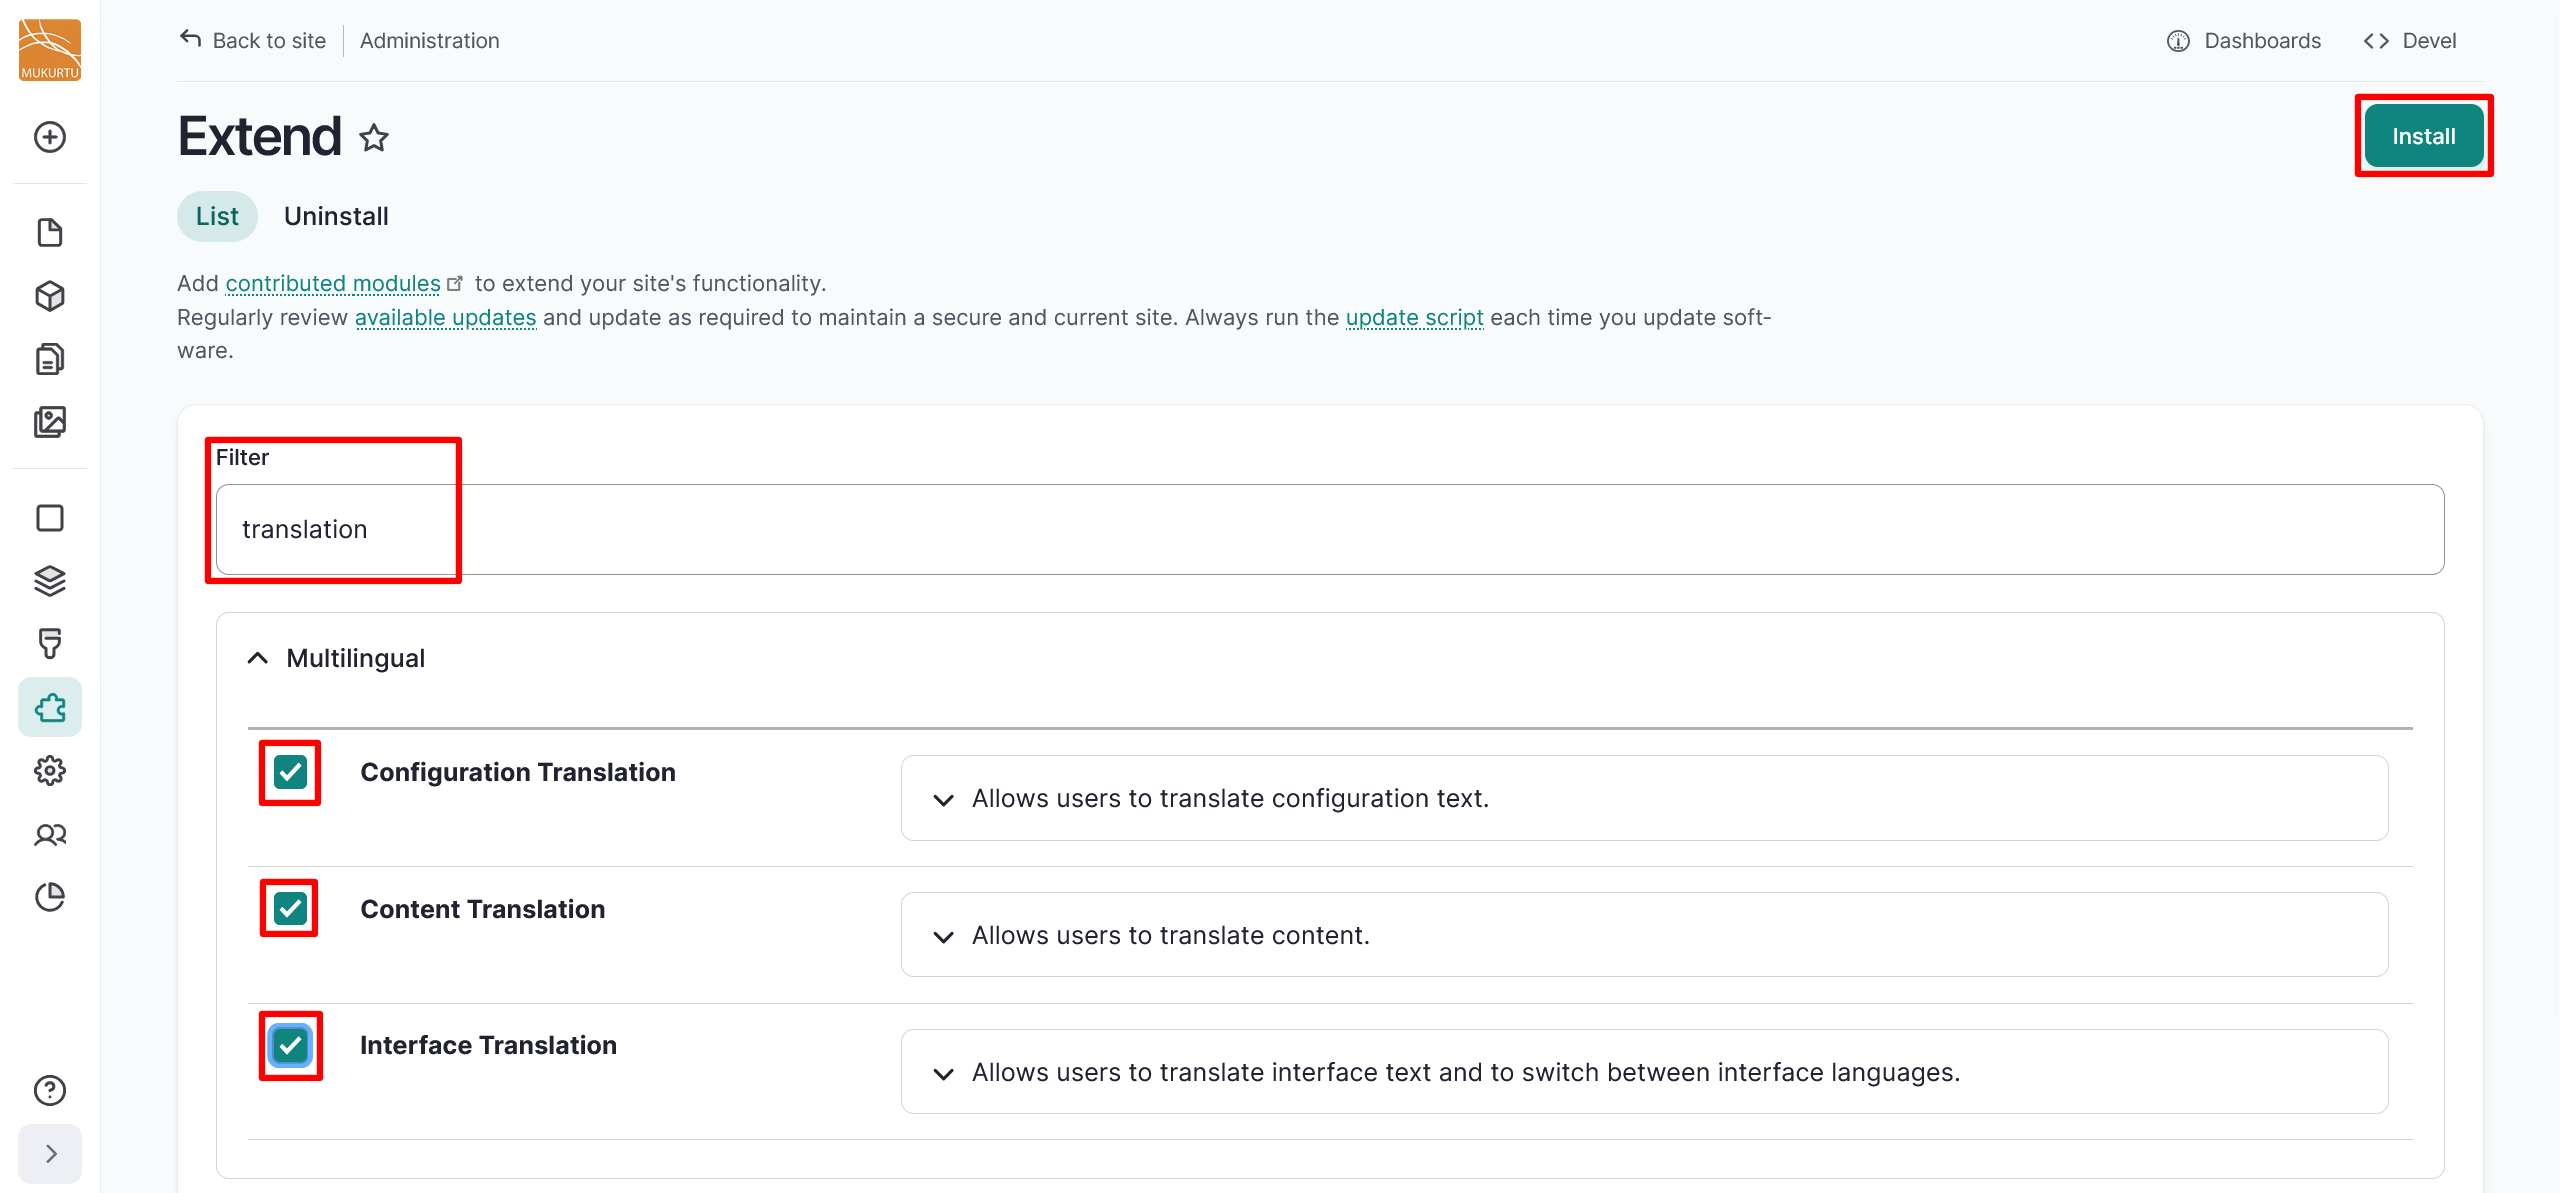
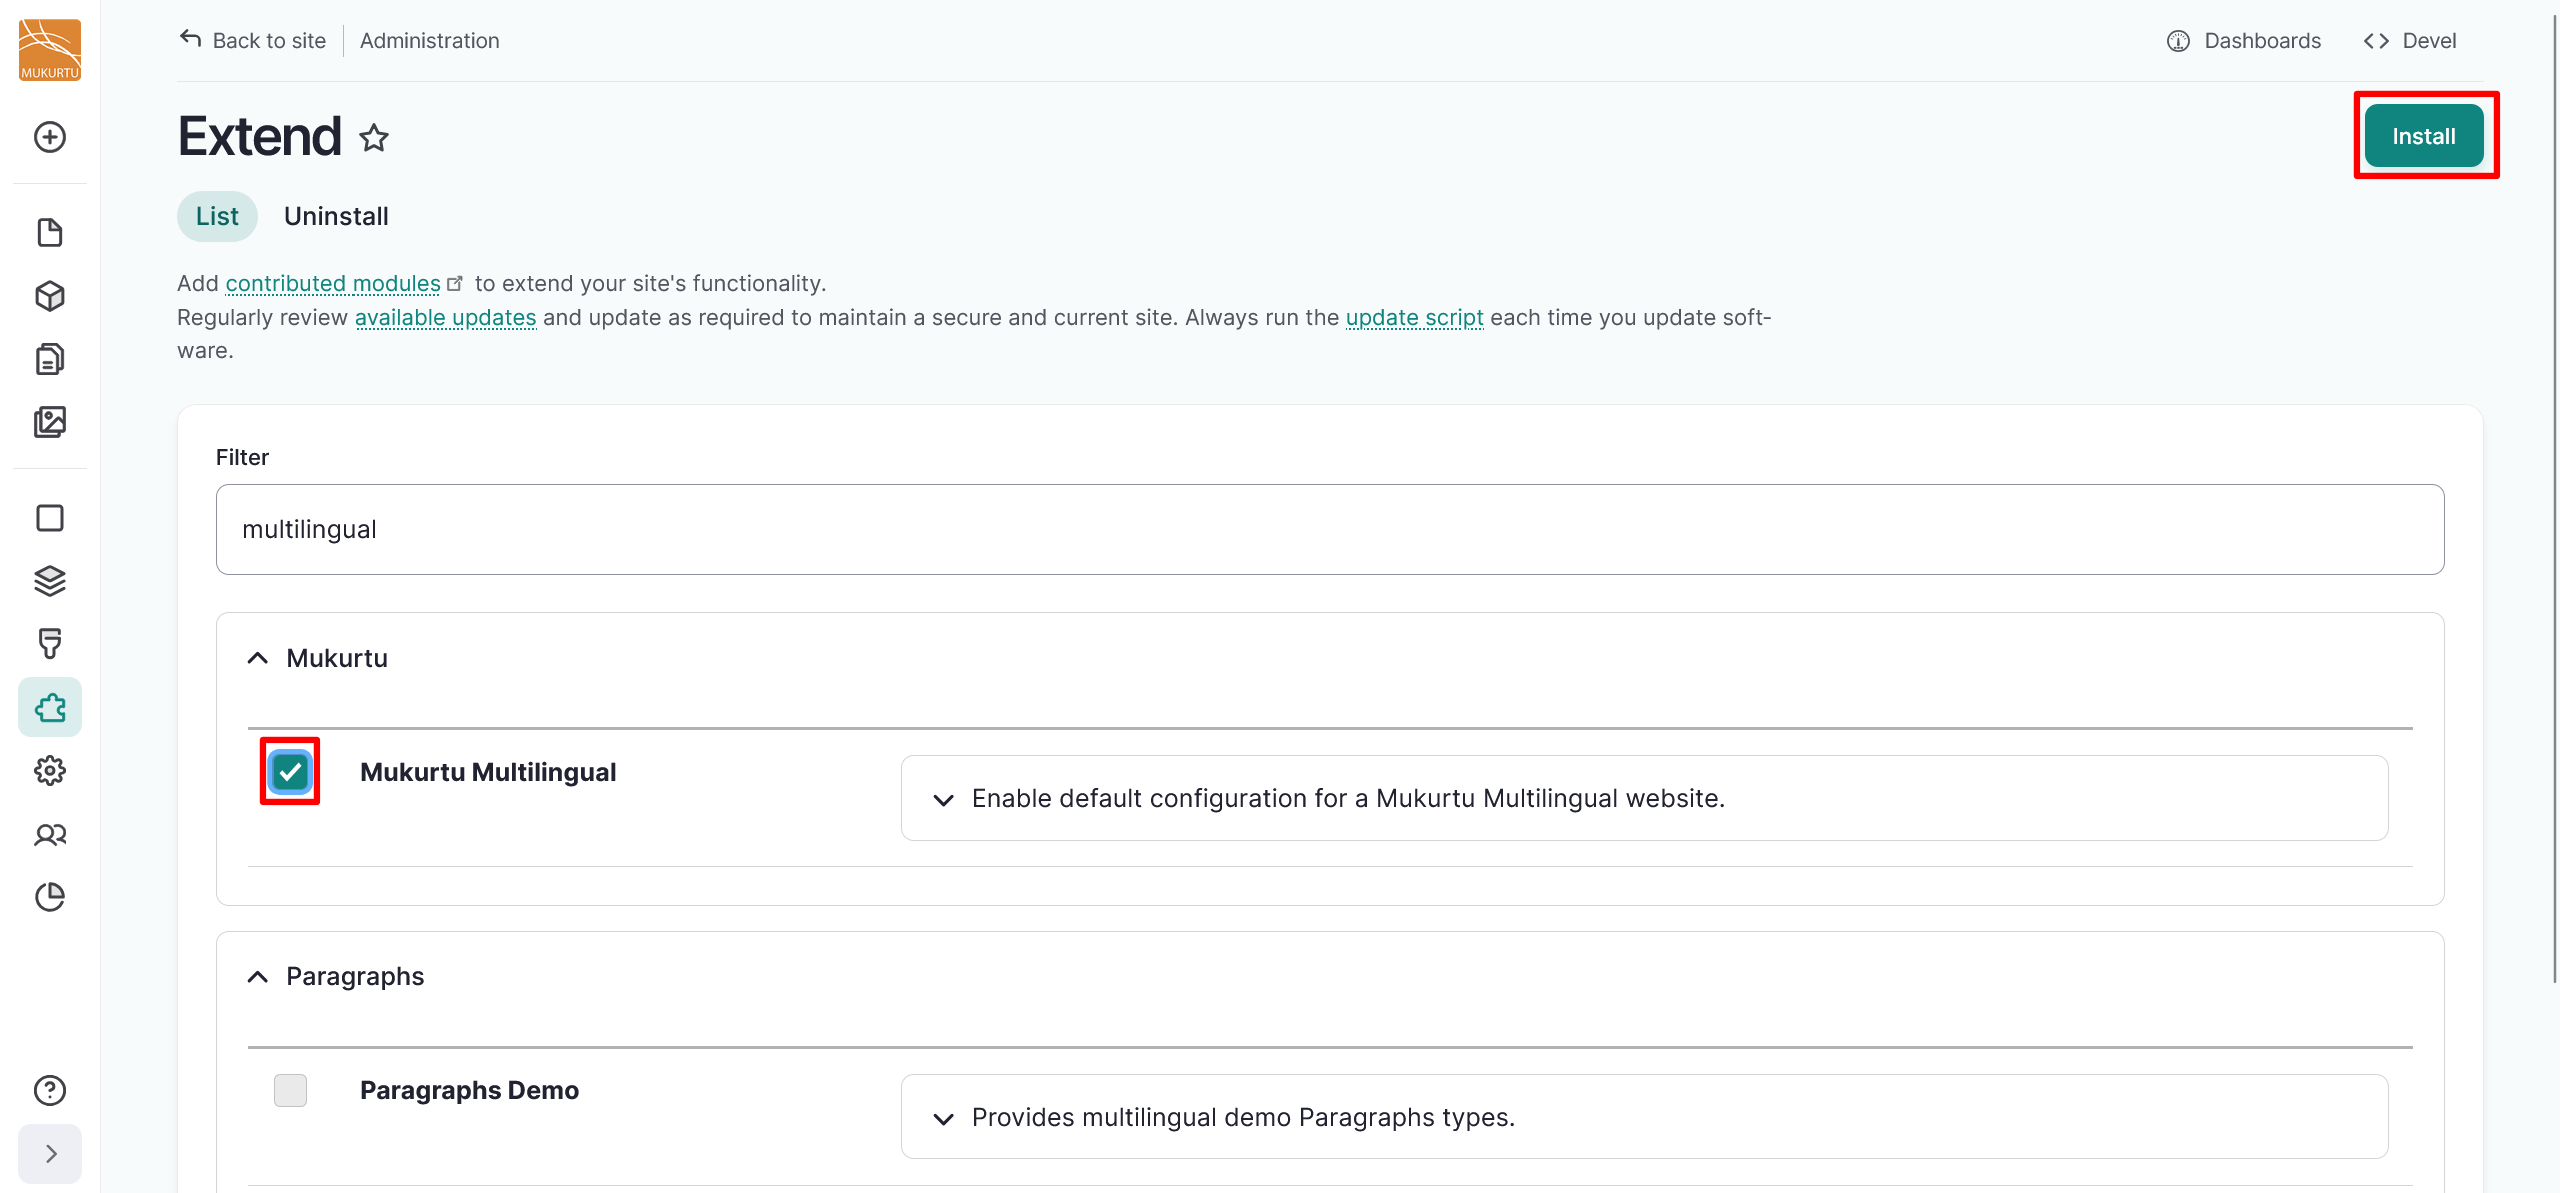
Translation updates

diff --git a/docs/localization-translation/ConfigureTranslation.md b/docs/localization-translation/ConfigureTranslation.md
@@ -3,34 +3,71 @@ tags:
     - translation and localization
 ---
 
-# Configure Translation and Localization
+# Configure Translation and Add Languages
 
 !!! roles "User role"
     Mukurtu manager
 
-Mukurtu 4 supports translation and localization into multiple languages. 
+Mukurtu 4 supports translation and localization into multiple languages using our Mukurtu Multilingual module. This module automatically installs the Mukurtu Multilingual, Configuration Translation, Content Translation, and Interface Translation modules bundle. Follow the instructions below to configure your site to display your site's elements and content in multiple languages. 
 
-The following modules are included and can be installed from the front end of the site. Configuration Translation, Content Translation, and Interface Translation must be installed manually, but the Language Module comes pre-installed.
-
-- Configuration Translation
-- Content Translation
-- Interface Translation
-- Language Module
-
-Follow the instructions below to configure your site to display the user interface and site content in multiple languages. 
+## Configure translation
 
 1. Select **Extend** from the left-hand sidebar menu, or navigate to `/admin/modules`.
 
     ![Screenshot of the front page with the Extend menu highlighted.](../_embeds/translation1.png)
 
-2. Use the *Filter* field to search for "translation". Three translation modules, Configuration Translation, Content Translation, and Interface Translation, are grouped in the multilingual package.
-3. Select all three modules, then select "Install".
+2. Use the *Filter* field to search for "multilingual". 
+3. Select Mukurtu Multilingual, then select "Install". This installs the Mukurtu Multilingual, Configuration Translation, Content Translation, and Interface Translation modules bundle.
 
-    !!! tip
-        The Language module should already be installed. If in doubt, search for and install it in the same way.
+    ![Screenshot of the Extend menu, with the checkbox and install button highlighted.](../_embeds/translation2.png)
 
-    ![Screenshot of the Extend menu, with the filter field, checkboxes, and install button highlighted.](../_embeds/translation2.png)
+4. You will receive a message asking you to confirm that you want to install all of the associated modules. Select "Continue".
 
-4. You will receive a status message confirming whether your modules have been installed. You will also receive a warning message with the next steps for configuring your Mukurtu site's language. For instructions on adding languages to your Mukurtu site, refer to [Add Languages](AddLanguage.md).
+    ![Screenshot of the message asking you to confirm whether you want to install all of the multilingual modules.](../_embeds/translation3.png)
 
-    ![Screenshot of the Extend menu with the status and warning messages displayed.](../_embeds/translation3.png)
+5. You will receive a status message confirming whether your modules have been installed. For instructions on adding languages to your Mukurtu site, refer to [Add Languages](AddLanguage.md).
+
+    ![Screenshot of the Extend menu with the status and warning messages displayed.](../_embeds/translation3a.png)
+
+## Add Languages
+
+You can add pre-configured or custom languages to your Mukurtu site after configuring translation by navigating to Configuration > Region and Languages > Language in your left-hand sidebar. You can access this setting directly by going to `/admin/config/regional/language`. For more information on configuring translation, refer to [Configure Translation](ConfigureTranslation.md)
+
+![Screenshot of the Configuration menu with Region and Languages open and Language highlighted](../_embeds/translation7.png)
+
+### Add a pre-configured language
+
+1. Select the "Add Language" button in the top right-hand corner of the Languages configuration page.
+
+    ![Screenshot of the languages configuration page with the add language button highlighted](../_embeds/translation4.png)
+
+2. Select a language to be supported by your site from the dropdown menu. If your language is not listed in the dropdown menu, refer to [Add a custom language code](#add-a-custom-language-code) section of this article for instructions on how to add your language.
+
+    ![Screenshot of the Add language page with the dropdown menu set to French.](../_embeds/translation5.png)
+
+3. Select the "Add language" button to add the selected language to your site.
+4. You will receive a confirmation message your language has been added successfully.
+
+    ![Screenshot of the status message confirming that a language has been added successfully.](../_embeds/translation6.png)
+
+### Add a custom language code
+
+1. If your language is not available, select the "Custom language" option to provide a language code and other details manually. Be aware that custom languages may require more translation work as fewer site elements may already be translated. For more information on translating site elements, refer to **WRITE AN ARTICLE FOR THIS**
+
+    - A listing of IANA language tags can be found at the [IANA Language Tags Registry](https://r12a.github.io/app-subtags/) site. 
+    - If your language is not listed, you can construct a custom language tag. For more information on constructing custom language tags, visit the [IANA Language Tags Registry](https://www.w3.org/International/articles/language-tags/). 
+
+2. Add your language code in the *Language code* field.
+3. Add the name of your language in the *Language name* field. 
+4. Select a text direction for your language. 
+5. Select the "Add custom language" button to import your language.
+        
+For more information on language tags and subtags, visit the [IANA Language Tags Registry Primary Language Subtag](https://www.w3.org/International/articles/language-tags/#language) article. For help configuring a custom language tag, please contact Mukurtu Support at [support@mukurtu.org](mailto:support@mukurtu.org).
+
+![Screenshot of the Add language page with the dropdown menu set to Custom language...and the fields available, filled in and highlighted, as well as the text direction and Add language button.](../_embeds/translation8.png)
+
+### Switch enabled languages
+
+To switch between languages in Mukurtu, you can use the language switcher button in the top right-hand corner of your top menu. The language switcher is only enabled when you have more than one language available on your site.
+
+![Screenshot of the top menu with the language switcher button highlighted.](../_embeds/translation9.png)

diff --git a/docs/localization-translation/TranslateContent.md b/docs/localization-translation/TranslateContent.md
@@ -1,0 +1,50 @@
+---
+tags:
+    - translation and localization
+---
+
+# Translate Content
+
+!!! roles "User roles"
+    Mukurtu manager, protocol steward, language steward, contributor, language contributor, curator, community record steward
+
+Mukurtu 4 CMS allows users to translate all of their site components and content into any language and all UTF-8 encoded scripts. Some site components are partially translated by Drupal, but custom fields and site content are not. To translate components and content in your Mukurtu site, you must have translation configured and have added at least one language. For instructions on how to configure translation, refer to [Configure Translation](ConfigureTranslation.md). For instructions on adding a language to your site, refer to [Add Languages](AddLanguage.md).
+
+## Translate Content
+
+Users can translate all of the content on their site. Follow the instructions below to translate your content.
+
+1. Navigate to the content you want to translate and select the "Translate" button.
+
+![Screenshot of a digital heritage item with the Translate button highlighted.](../_embeds/translatecontent1.png)
+
+2. Select the "Add" button to the right of the language you want to translate your content into. 
+
+
+
+## Configuration Translation
+
+Mukurtu managers can translate all the configuration items on their site that has translatable text, such as the site name, role names, and other structural site components. To begin translating these, navigate to Configuration > Region and Language > Configuration Translation, or go directly to `/admin/config/regional/config-translation`.
+
+1. Select the "List" button to the right of the component type you want to translate.
+
+    ![Screenshot of the Configuration Translation page, with List highlighted on the Block component.](../_embeds/translationconfig1.png)
+
+2. Select the "Translate" button to the right of the specific site component you want to translate. Use the *Search* field to search for specific site components. 
+
+    ![Screenshot fo the Block page, with the Search field and the Translate button to the right of Page Title highlighted](../_embeds/translationconfig2.png)
+
+3. If your site component is not translated, select the "Add" button to add a translation. If it is already translated, select the "Edit" button to edit the translation.
+
+    ![Screenshot of the Translation page with English, French, and Gaeilge](../_embeds/translationconfig3.png)
+    
+4. Enter your preferred translation, then select "Save translation".
+
+    ![Screenshot of the Edit Translation modal with the translation entered in French.](../_embeds/translationconfig4.png)
+
+## User Interface Translation
+
+User interface translation allows a translator to search for specific translated and untranslated strings, and is used when creating or editing translations. Because translation tasks involve many strings, user interface allows translators to export strings for offline editing in a desktop Gettext translation editor, then import the translated strings.
+
+
+

diff --git a/docs/localization-translation/UITranslation.md b/docs/localization-translation/UITranslation.md
@@ -3,12 +3,12 @@ tags:
     - translation and localization
 ---
 
-# DECIDE ON A TITLE LATER
+# Translate Site Components
 
 !!! roles "User role"
     Mukurtu manager
 
-Mukurtu 4 CMS allows users to translate all of their site components and content into any language and all UTF-8 encoded scripts. Some site components are partially translated by Drupal, but custom fields and site content are not. To translate components and content in your Mukurtu site, you must have translation configured and have added at least one language. For instructions on how to configure translation, refer to [Configure Translation](ConfigureTranslation.md). For instructions on adding a language to your site, refer to [Add Languages](AddLanguage.md).
+Mukurtu 4 CMS allows users to translate all of their site components into any language and all UTF-8 encoded scripts. Some site components are partially translated by Drupal, but custom fields are not. To translate site components and the user interface in your Mukurtu site, you must have translation configured and have added at least one language. For instructions on how to configure translation, refer to [Configure Translation](ConfigureTranslation.md). For instructions on adding a language to your site, refer to [Add Languages](AddLanguage.md).
 
 ## Configuration Translation
 
@@ -33,6 +33,3 @@ Mukurtu managers can translate all the configuration items on their site that ha
 ## User Interface Translation
 
 User interface translation allows a translator to search for specific translated and untranslated strings, and is used when creating or editing translations. Because translation tasks involve many strings, user interface allows translators to export strings for offline editing in a desktop Gettext translation editor, then import the translated strings.
-
-
-
